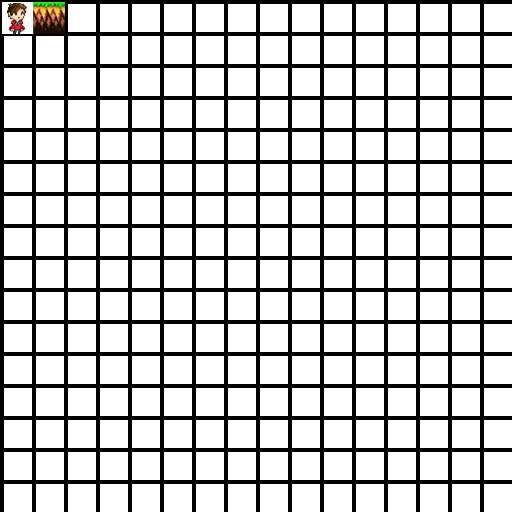
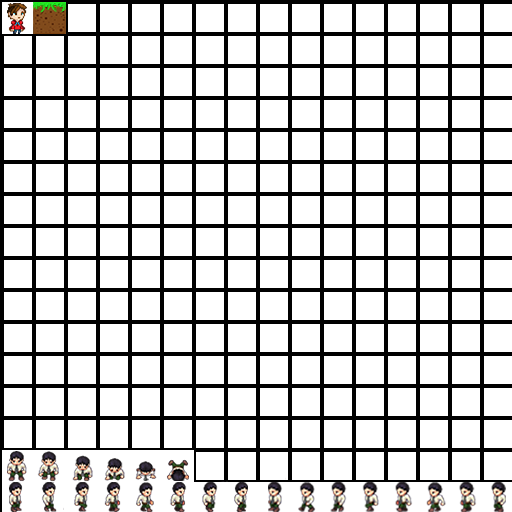
Player spirteSheet added

Changed region(s): [[0.0, 0.875, 1.0, 1.0], [0.0625, 0.0, 0.1562, 0.0938]]

diff --git a/src/Entity/Player.java b/src/Entity/Player.java
@@ -17,6 +17,10 @@ import java.awt.Graphics;
  * @author Roniel Nunes
  */
 public class Player extends Entity{
+    
+    private int frame = 0;
+    private int frameDelay = 0;
+    
     public Player(int x, int y, int width, int height, boolean solid, Id id,Handler handler){
        super(x,y,width,height,solid,id,handler);
        //this.setVelX(5);
@@ -24,9 +28,12 @@ public class Player extends Entity{
 
     //Implemtação dos metodos abstratos
     public void render(Graphics g) {
-      //g.setColor(Color.BLUE);
-     // g.fillRect(x, y,width , height);
-        g.drawImage(Game.player.getBufferedImage(),x,y,width,height,null);
+        if(facing==0){
+            g.drawImage(Game.player[frame+8].getBufferedImage(),x,y,width,height,null);
+        }else if (facing ==1){
+            g.drawImage(Game.player[frame].getBufferedImage(),x,y,width,height,null);
+        }
+        
     }
 
  
@@ -100,6 +107,15 @@ public class Player extends Entity{
             gravity+=0.1;
             setVelY((int)gravity);
             
+            
+        }
+        frameDelay++;
+        if(frameDelay>=3){
+            frame++;
+            if(frame>=8){
+                frame = 0;
+            }
+            frameDelay = 0;
             
         }
     }

diff --git a/src/Jogo/Game.java b/src/Jogo/Game.java
@@ -27,7 +27,7 @@ public class Game extends Canvas implements Runnable{
     public static SpriteSheet sheet;
     
     public static Sprite grass;
-    public static Sprite player;
+    public static Sprite player[]= new Sprite[18];
     
     public Game(){
         Dimension size = new Dimension(WIDTH * SCALE, HEIGHT*SCALE);
@@ -42,7 +42,9 @@ public class Game extends Canvas implements Runnable{
         
         addKeyListener(new KeyInput());
         grass = new Sprite (sheet,2,1);
-        player = new Sprite(sheet,1,1);
+        for(int i=0;i<player.length;i++){
+            player[i] = new Sprite(sheet,i+1,16);//TODO: Colocar coordenada Y da spriteSheet 
+        }
         
         handler.addEntity(new Player(300,100,64,64,true,Id.player,handler));
         

diff --git a/src/gfx/SpriteSheet.java b/src/gfx/SpriteSheet.java
@@ -26,7 +26,7 @@ public class SpriteSheet {
     }
     
     public BufferedImage getSprite(int x,int y){
-        return sheet.getSubimage(x*32-32, y*32-32, 32, 32);
+        return sheet.getSubimage(sheet.getWidth()-32, sheet.getHeight()-32, 32, 32);
     }
      
 }

diff --git a/src/Entity/Entity.java b/src/Entity/Entity.java
@@ -22,6 +22,7 @@ public abstract class Entity {
     public boolean solid;
     public boolean jumping = false;
     public boolean falling = true;
+    public int facing = 0; //0 - Esquerda, 1 = direita
     
     public int velX,velY;
     
